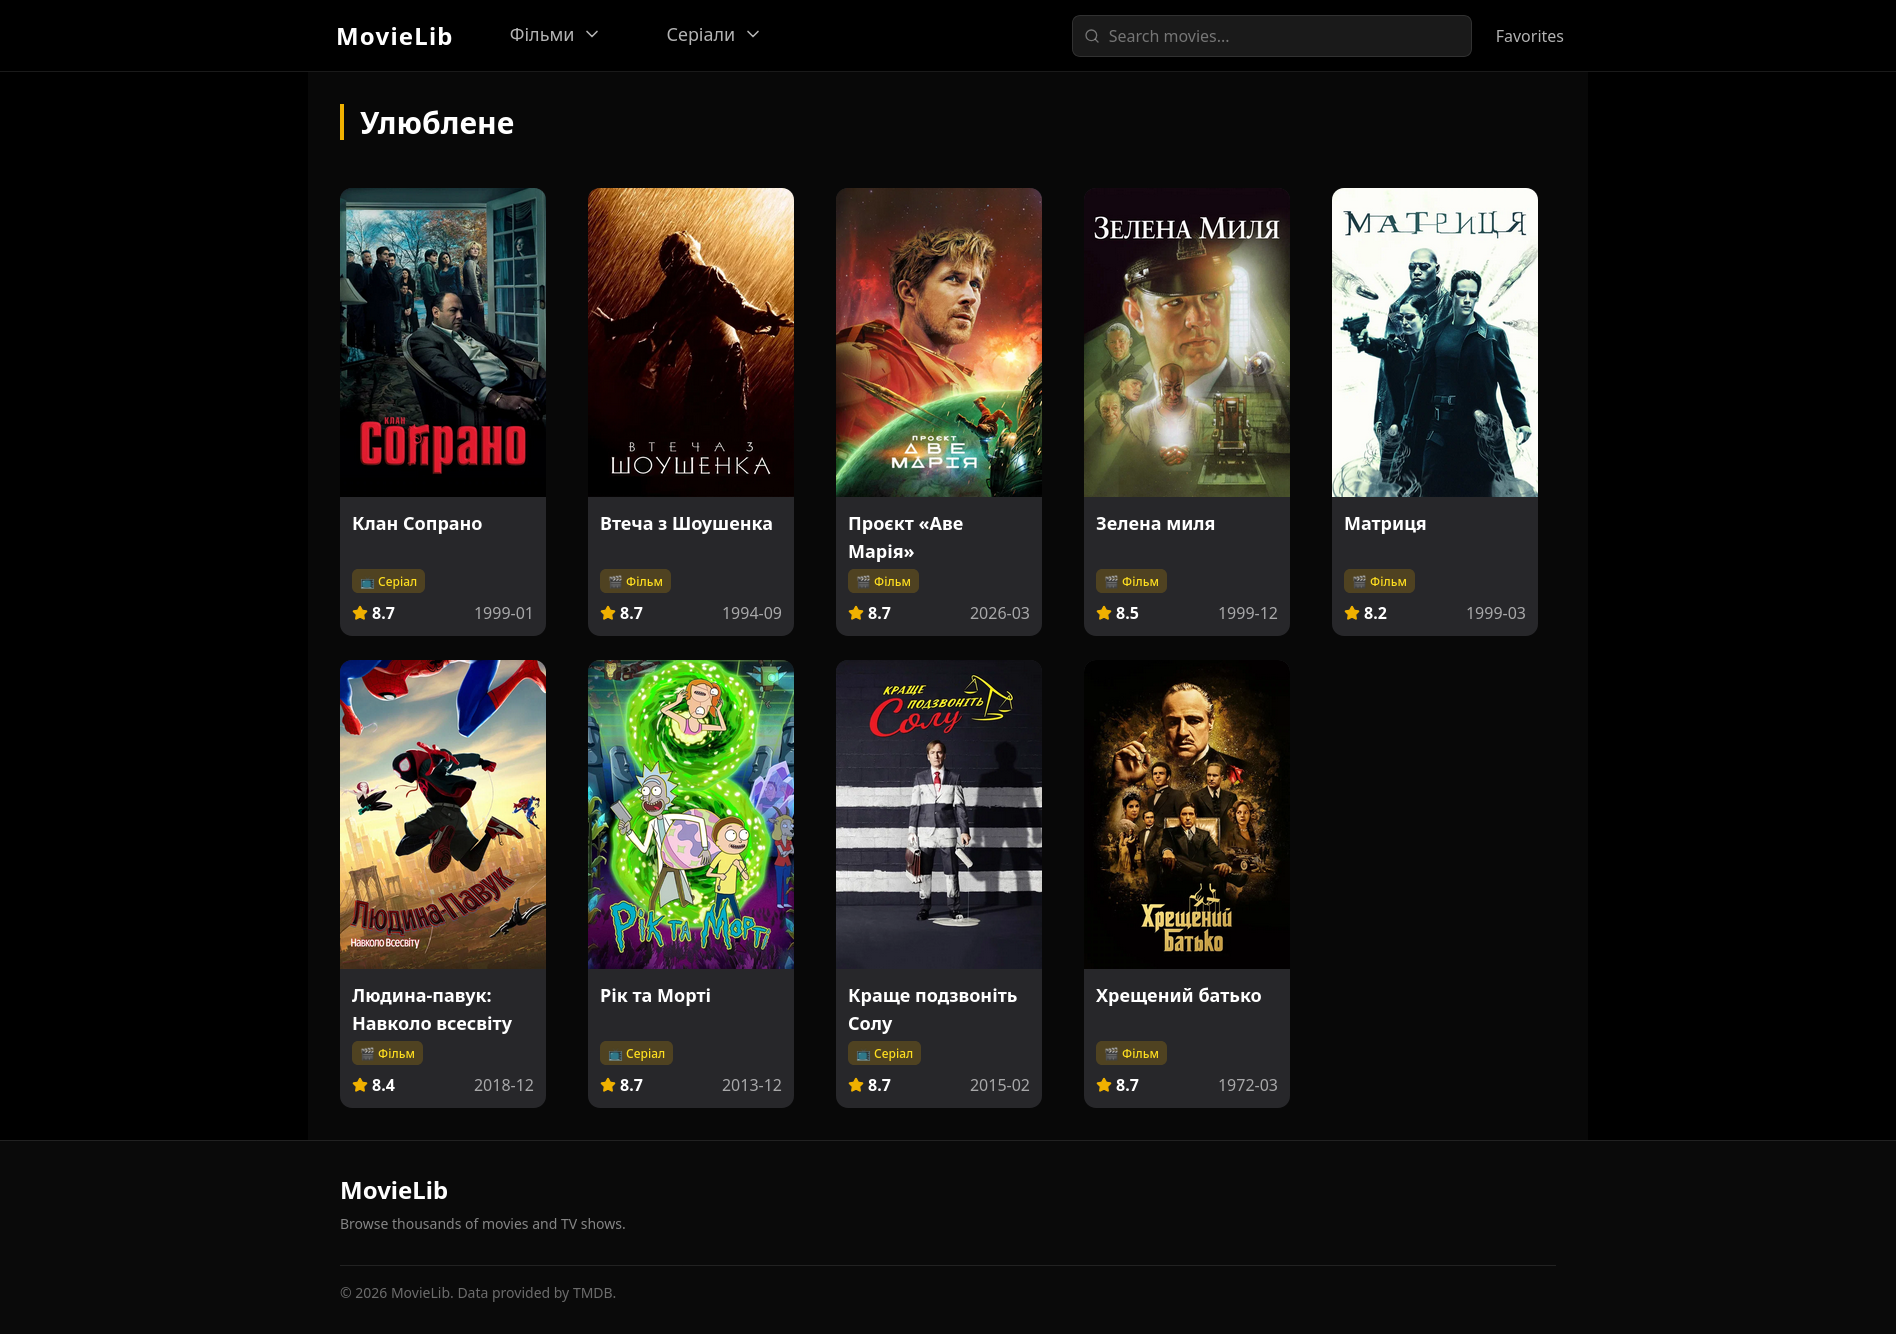
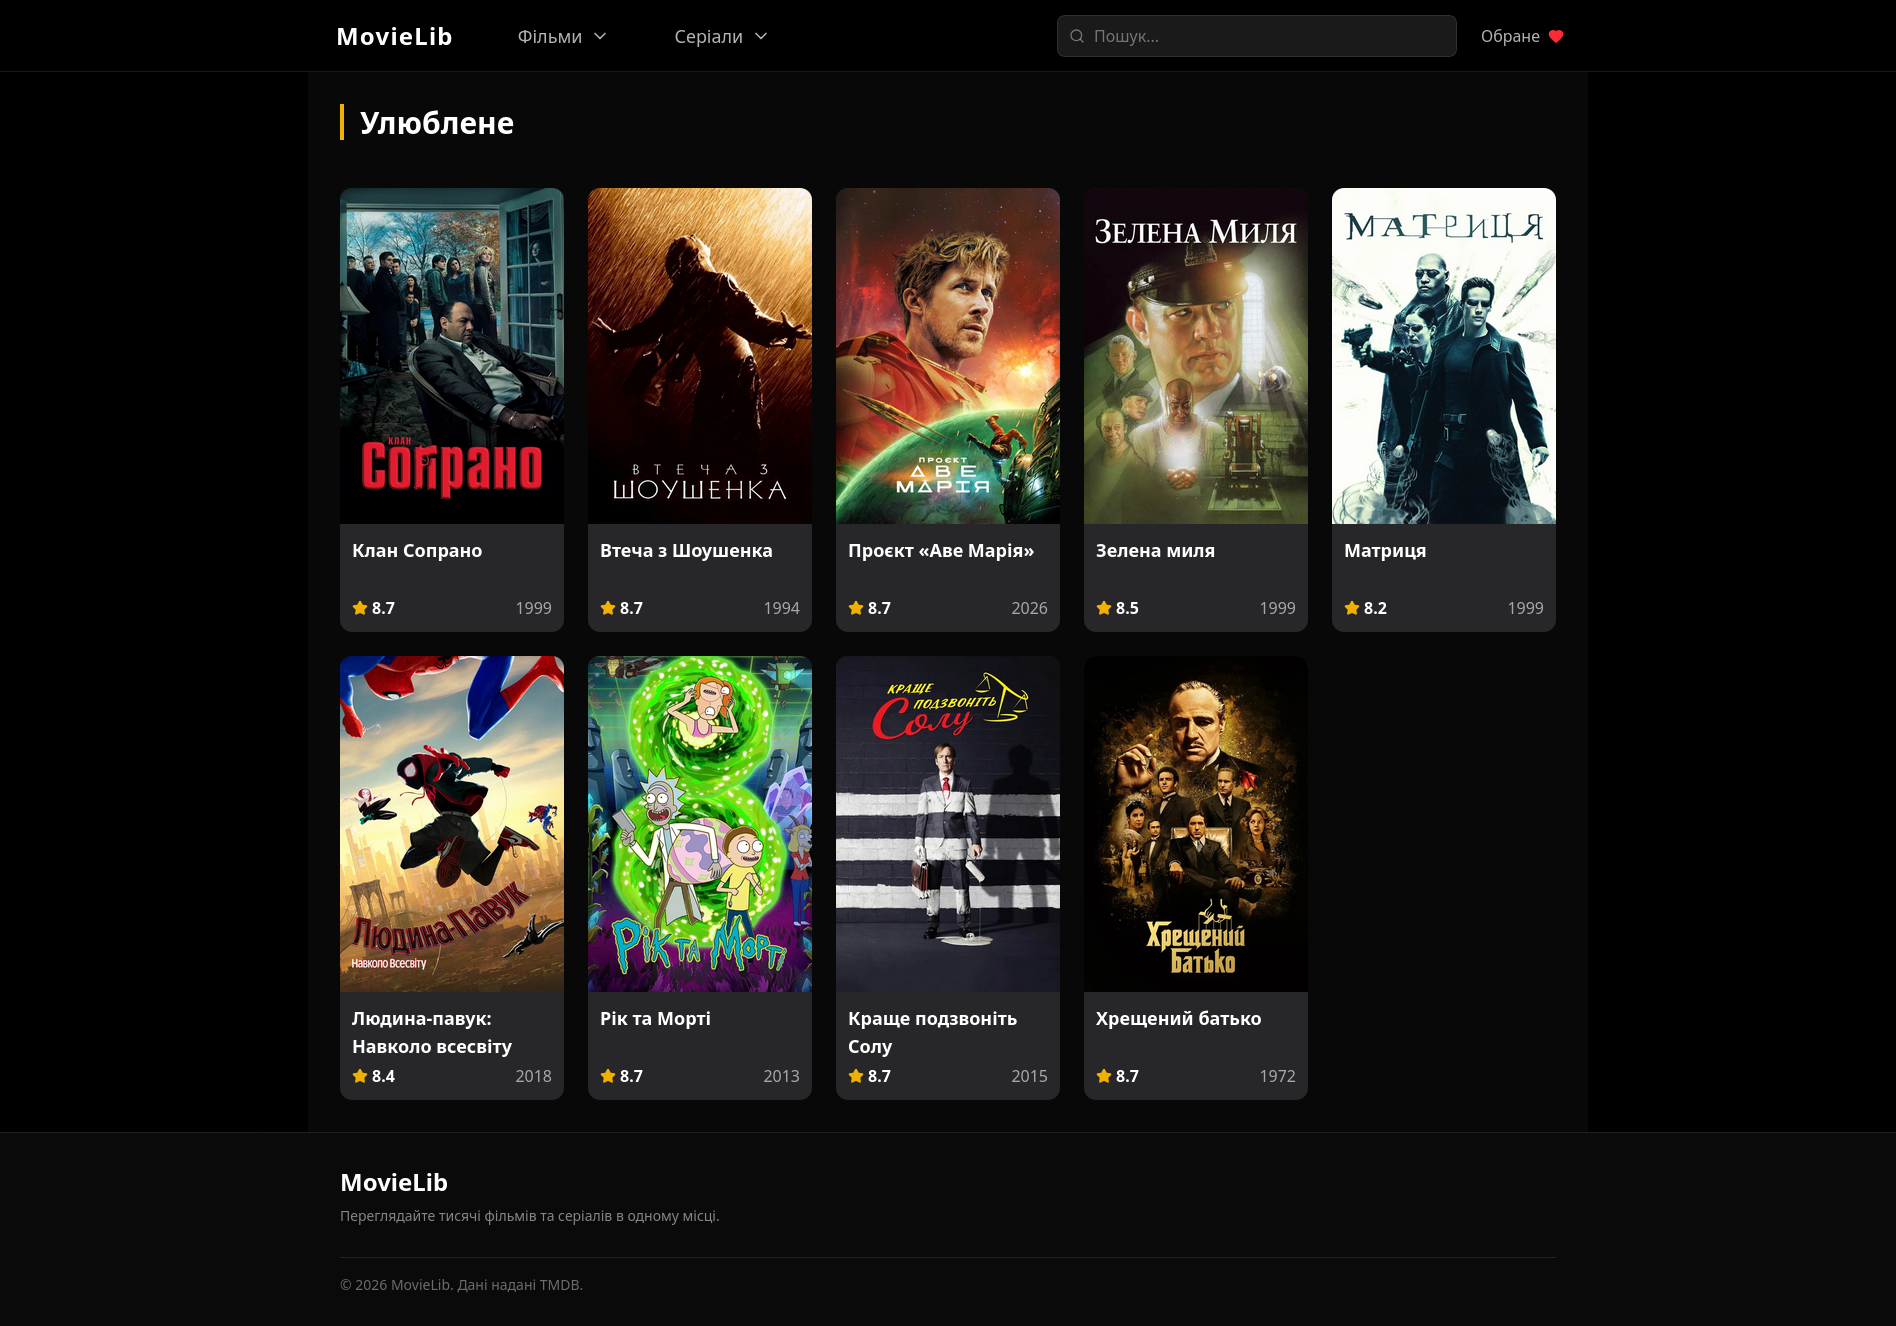
Update README

diff --git a/src/components/media/search/SearchInput.tsx b/src/components/media/search/SearchInput.tsx
@@ -41,7 +41,7 @@ export default function SearchInput({ className, onClose }: SearchInputProps) {
         <input
           ref={inputRef}
           type="text"
-          placeholder="Search movies..."
+          placeholder="Пошук..."
           value={query}
           onChange={handleChange}
           className="
@@ -78,7 +78,7 @@ export default function SearchInput({ className, onClose }: SearchInputProps) {
 
             <div className="flex items-center gap-3 mt-1">
               <span className="text-sm text-white/60">
-                {element.media_type === "movie" ? "Movie" : "TV shows"}
+                {element.media_type === "movie" ? "Фільм" : "Серіал"}
               </span>
 
               <Release

diff --git a/src/components/layout/Footer.tsx b/src/components/layout/Footer.tsx
@@ -11,12 +11,12 @@ export default function Footer() {
         </Link>
 
         <p className="mt-2 max-w-md text-sm text-white/50">
-          Browse thousands of movies and TV shows.
+          Переглядайте тисячі фільмів та серіалів в одному місці.
         </p>
 
         <div className="mt-8 border-t border-white/10 pt-4">
           <p className="text-sm text-white/40">
-            &copy; {new Date().getFullYear()} {APP_NAME}. Data provided by TMDB.
+            &copy; {new Date().getFullYear()} {APP_NAME}. Дані надані TMDB.
           </p>
         </div>
 

diff --git a/README.md b/README.md
@@ -1,114 +1,40 @@
 # MovieLib
 
-MovieLib is a movie and TV show discovery platform built with React, TypeScript and TMDB API.
+MovieLib is a movie and TV show discovery platform built with React 19, TypeScript, and the TMDB API.
 
-The application allows users to browse popular and top-rated movies and TV shows, search for specific titles, view detailed information and manage a personal favorites collection.
 
-## Preview
-
-### Home Page
-
-Main page featuring an animated hero section built with Motion, two horizontal movie sliders, and a Top 10 TV Shows section.
-
-![Home Page](./docs/home.png)
-
-### Media Catalog
-
-Browse popular and top-rated movies and TV shows with URL-based pagination and responsive media cards.
-
-![Media Catalog](./docs/media-catalog.png)
-
-### Details Page
-
-Detailed information page for movies and TV shows, including genres, cast members, production companies, ratings, release information and plot overview.
-
-![Details Page](./docs/details.png)
-
-### Favorites
-
-Personal favorites collection with Local Storage persistence. Saved movies and TV shows remain available between browser sessions.
-
-![Favorites](./docs/favorites.png)
 
 ## Features
 
-### Home Page
-
-* Animated hero section built with Framer Motion
-* Horizontal movie sliders
-* Top 10 highest-rated TV shows section
-
-### Movies & TV Shows
-
-* Popular Movies
-* Top Rated Movies
-* Popular TV Shows
-* Top Rated TV Shows
-
-Each category supports pagination and displays 20 items per page.
-
-### Search System
-
-* Search movies and TV shows by title
-* Fast navigation to detailed pages
-
-### Details Pages
-
-Every movie and TV show includes a dedicated details page with:
-
-* Title and poster
-* Overview and plot description
-* Genres
-* User rating
-* Release information
-* Production companies
-* Cast information
-* Additional data provided by the TMDB API
-
-### Favorites
-
-* Save movies and TV shows to favorites
-* Favorites stored in Local Storage
-* Persistent data between sessions
-
-## Architecture Highlights
-
-* Component-based architecture
-* Custom React hooks
-* Reusable UI components
-* Type-safe API integration
-* URL-based pagination
-* Local Storage persistence
-* Dynamic routing with React Router
-* Separation of concerns between pages, components, hooks and API layer
+* **Fully Responsive UI:** The application is fully optimized for mobile, tablet, and desktop devices.
+* **Smart Search System:** Real-time search functionality with fast navigation to detailed pages.
+* **Media Catalog:** Browse popular and top-rated movies and TV shows with URL-based pagination.
+* **Rich Details:** Detailed pages including genres, cast, production companies, ratings, and plot summaries.
+* **Favorites Collection:** Manage personal favorites with persistent storage using Local Storage.
 
 ## Tech Stack
 
 ### Frontend
-
 * React 19
 * TypeScript
 * Vite
 * React Router
 
 ### Styling & UI
-
 * Tailwind CSS 4
-* Lucide React Icons
-
-### Animations
-
-* Motion (Framer Motion)
+* Lucide React
 
 ### Data & API
-
 * Axios
 * TMDB API
 
-### Development Tools
+## Architecture Highlights
 
-* ESLint
-* TypeScript ESLint
+* Component-based architecture
+* Type-safe API integration
+* Custom React hooks for state management
+* URL-based pagination
+* Separation of concerns between pages, components, and API layer
 
 ## Installation
 
@@ -120,9 +46,9 @@ pnpm install
 
 ## Environment Variables
 
-Create a `.env` file in the project root:
+Create a .env file in the project root:
 
-```env
+```bash
 VITE_TMDB_API_KEY=your_api_key
 ```
 
@@ -134,17 +60,17 @@ pnpm dev
 
 ## Project Goals
 
-This project was created to practice building a larger React application with:
+This project was created to practice building a professional-grade React application with:
 
-* TypeScript
-* API integration
-* State management
-* Custom hooks
-* Component composition
-* Routing
-* Pagination
-* Persistent user data
+* TypeScript and type safety
+
+* Advanced API integration
+
+* Responsive UI/UX design
+
+* Persistent user data handling
+
+* Component composition and state management
 
 ## Author
-
 Nikita Ivanov
